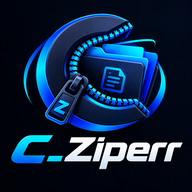
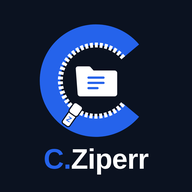
Replace branding and fix mobile layout collisions

diff --git a/public/index.html b/public/index.html
@@ -1,11 +1,11 @@
 <!DOCTYPE html><html lang="id"><head><meta charset="utf-8"><meta name="viewport" content="width=device-width,initial-scale=1,viewport-fit=cover"><title>C-Ziperr — Game Resource System</title><link rel="manifest" href="manifest.webmanifest"><link rel="icon" href="favicon.png"><link rel="apple-touch-icon" href="icon-192.png"><meta name="theme-color" content="#071b42"><style>
 :root{--bg:#030711;--p:#091329;--p2:#071020;--b:#17356e;--t:#eef6ff;--m:#89a8cc;--a:#18d6ff;--a2:#146eff;--e:#ff687e;--ok:#51e6a0;--warn:#ffd166;--blue:#2e6bff}
-*{box-sizing:border-box}html,body{margin:0;background:var(--bg);color:var(--t);font:14px system-ui,sans-serif}
-header{position:sticky;top:0;z-index:5;background:var(--p);border-bottom:1px solid var(--b);padding:calc(8px + env(safe-area-inset-top,0px)) 12px 8px;display:flex;gap:8px;align-items:center;justify-content:space-between}
+*{box-sizing:border-box}html,body{margin:0;background:var(--bg);color:var(--t);font:14px system-ui,sans-serif;overflow-x:hidden}body{min-width:0}
+header{position:sticky;top:0;z-index:5;background:var(--p);border-bottom:1px solid var(--b);padding:calc(8px + env(safe-area-inset-top,0px)) max(12px,env(safe-area-inset-left,0px)) 8px;display:flex;gap:8px;align-items:center;justify-content:space-between;min-width:0}
 button,input,textarea{font:inherit;color:inherit;background:var(--p);border:1px solid var(--b);border-radius:8px;padding:8px 10px}
 button{cursor:pointer}button.pri,button.on{background:var(--a);border-color:var(--a);color:#061218;font-weight:700}button:disabled{opacity:.4}
-main{padding:12px;max-width:820px;margin:auto}
-.card{background:var(--p);border:1px solid var(--b);border-radius:12px;padding:12px;margin-bottom:12px}
+main{width:100%;padding:12px;max-width:820px;margin:auto;min-width:0}
+.card{background:var(--p);border:1px solid var(--b);border-radius:12px;padding:12px;margin-bottom:12px;min-width:0;overflow:hidden}
 .row{display:flex;gap:8px;flex-wrap:wrap;align-items:center;margin-bottom:8px}.row>input{flex:1;min-width:0}
 .bar{height:8px;background:var(--b);border-radius:9px;overflow:hidden;margin:8px 0}.bar i{display:block;height:100%;width:0;background:var(--a);transition:width .2s}
 .collect-grid{display:grid;grid-template-columns:1fr 1fr;gap:8px}.collect-grid label{display:block;color:var(--m);font-size:11px;margin-bottom:4px}.collect-grid input{width:100%}.logbox{background:#071018;border:1px solid #29414c;border-radius:8px;margin-top:10px;overflow:hidden}.loghead{display:flex;justify-content:space-between;align-items:center;padding:8px 10px;border-bottom:1px solid #29414c;color:var(--a);font-size:12px;font-weight:700}.loghead small{color:var(--m)}#errlog{margin:0;padding:9px 10px;min-height:92px;max-height:150px;overflow:auto;font:11px/1.55 ui-monospace,SFMono-Regular,Consolas,monospace;white-space:pre-wrap;color:#a9c0c8}.log-info{color:#a9c0c8}.log-ok{color:var(--ok)}.log-warn{color:var(--warn)}.log-error{color:var(--e)}.zip-load{margin-bottom:10px}.zip-load .row{margin-bottom:5px}.zip-load button{min-height:40px}.zip-name{display:block;overflow:hidden;text-overflow:ellipsis;white-space:nowrap}.editor-log{background:#111820;border-top:1px solid #29414c;color:#a9c0c8;flex:none}.editor-log summary{cursor:pointer;padding:5px 10px;color:var(--a);font-size:11px}.editor-log pre{margin:0;padding:6px 10px;max-height:120px;overflow:auto;font:11px/1.45 ui-monospace,SFMono-Regular,Consolas,monospace;white-space:pre-wrap}
@@ -19,8 +19,8 @@ main{padding:12px;max-width:820px;margin:auto}
 textarea{width:100%;min-height:300px;font:12px ui-monospace,monospace;white-space:pre}
 pre{background:var(--bg);padding:8px;border-radius:8px;overflow:auto;max-height:200px;font-size:12px;margin:6px 0 0}
 dialog{background:var(--p);color:var(--t);border:1px solid var(--e);border-radius:12px;max-width:92vw;width:520px}
-.brand{display:flex;align-items:center;gap:8px}.brand img{width:34px;height:34px;object-fit:cover;border-radius:9px;background:#02050c;padding:0;box-shadow:0 0 12px #146eff88}.hero{background:radial-gradient(circle at 50% 35%,#0d3475 0,#071329 43%,#030711 100%);border:1px solid #1b4b91;border-radius:12px;text-align:center;padding:10px;margin-bottom:12px;box-shadow:0 0 28px #001b4655}.hero img{max-width:100%;height:150px;object-fit:contain;filter:drop-shadow(0 0 10px #146eff66)}.hero small{display:block;color:var(--m);margin-top:4px}.err{color:var(--e)}[hidden]{display:none!important}.chips button{padding:4px 12px;border-radius:99px}small,#ts{color:var(--m)}
-header{flex-wrap:wrap}header nav{width:100%;overflow-x:auto;flex-wrap:nowrap!important;margin:0!important}header nav button{white-space:nowrap;flex:1}
+.brand{display:flex;align-items:center;gap:8px;min-width:0;flex:0 1 auto}.brand img{width:34px;height:34px;flex:none;object-fit:cover;border-radius:9px;background:#02050c;padding:0;box-shadow:0 0 12px #146eff88}.brand b{overflow:hidden;text-overflow:ellipsis;white-space:nowrap}.hero{background:radial-gradient(circle at 50% 35%,#0d3475 0,#071329 43%,#030711 100%);border:1px solid #1b4b91;border-radius:12px;text-align:center;padding:10px;margin-bottom:12px;box-shadow:0 0 28px #001b4655;min-width:0}.hero img{display:block;width:min(100%,180px);height:150px;margin:0 auto;object-fit:contain;filter:drop-shadow(0 0 10px #146eff66)}.hero small{display:block;color:var(--m);margin-top:4px}.err{color:var(--e)}[hidden]{display:none!important}.chips button{padding:4px 12px;border-radius:99px}small,#ts{color:var(--m)}
+header{flex-wrap:wrap}header nav{width:100%;min-width:0;overflow-x:auto;flex-wrap:nowrap!important;margin:0!important;scrollbar-width:none}header nav::-webkit-scrollbar{display:none}header nav button{white-space:nowrap;flex:0 0 auto;min-height:36px}
 select{font:inherit;color:inherit;background:var(--p);border:1px solid var(--b);border-radius:8px;padding:8px 10px}
 #ed:not([hidden]){display:flex;flex-direction:column;height:calc(100dvh - 92px);background:#1e1e1e;color:#ccc}
 #ed button,#ed input{background:#3c3c3c;border:1px solid #454545;color:#ccc;border-radius:4px;padding:4px 8px;font-size:12px}
@@ -28,7 +28,7 @@ select{font:inherit;color:inherit;background:var(--p);border:1px solid var(--b);
 .vb{flex:1;min-height:0;display:flex;position:relative}
 .ab{width:36px;background:#333;display:flex;flex-direction:column;gap:2px;padding:4px 2px;flex:none}.ab button{background:none!important;border:0!important;font-size:16px;opacity:.6}.ab button.on{opacity:1;border-left:2px solid #fff!important}
 #sb{width:230px;background:#252526;overflow:auto;flex:none}#sb.off{display:none}
-@media(max-width:700px){#sb{position:absolute;z-index:6;left:36px;top:0;bottom:0;width:78%}.collect-grid{grid-template-columns:1fr 1fr}header nav button{font-size:11px;padding:7px 5px}main{padding:9px}.hero img{height:112px}.stats{grid-template-columns:repeat(3,1fr)}}
+@media(max-width:700px){#sb{position:absolute;z-index:6;left:36px;top:0;bottom:0;width:78%}.collect-grid{grid-template-columns:1fr}header{gap:6px;padding-left:max(9px,env(safe-area-inset-left,0px));padding-right:max(9px,env(safe-area-inset-right,0px))}.brand{width:100%}header nav{order:2}.collect-grid label,.capture-options-grid label{min-width:0}header nav button{font-size:11px;padding:7px 10px}main{padding:9px}.hero{padding:8px}.hero img{height:112px;width:min(100%,150px)}.stats{grid-template-columns:repeat(3,1fr)}.row{min-width:0}.row>button{max-width:100%}input,select,textarea{max-width:100%}}
 .ph2{display:flex;justify-content:space-between;align-items:center;padding:6px 8px;font-size:11px;color:#bbb}.ph2 button{padding:2px 6px}
 .capture-options{margin-top:10px;border:1px solid #17356e;border-radius:10px;background:#050c1a;overflow:hidden}.capture-options summary{cursor:pointer;padding:9px 10px;color:var(--a);font-weight:700;font-size:12px;list-style:none}.capture-options summary::-webkit-details-marker{display:none}.capture-options summary::before{content:'＋';display:inline-block;width:18px;color:var(--a2)}.capture-options[open] summary::before{content:'−'}.capture-options-body{padding:0 10px 10px;border-top:1px solid #17356e}.capture-options-grid{display:grid;grid-template-columns:repeat(4,1fr);gap:8px;margin-top:9px}.capture-options-grid label{display:block;color:var(--m);font-size:10px}.capture-options-grid input,.capture-options-grid select{width:100%;margin-top:3px;padding:7px 8px;font-size:12px}.capture-note{display:block;margin-top:8px;color:var(--m);font-size:10px;line-height:1.45}.capture-badges{display:flex;gap:6px;flex-wrap:wrap;margin-top:8px}.capture-badges span{border:1px solid #1b4b91;border-radius:99px;padding:3px 8px;color:var(--m);font-size:10px}.capture-badges b{color:var(--ok)}
 @media(max-width:700px){.capture-options-grid{grid-template-columns:1fr 1fr}}
